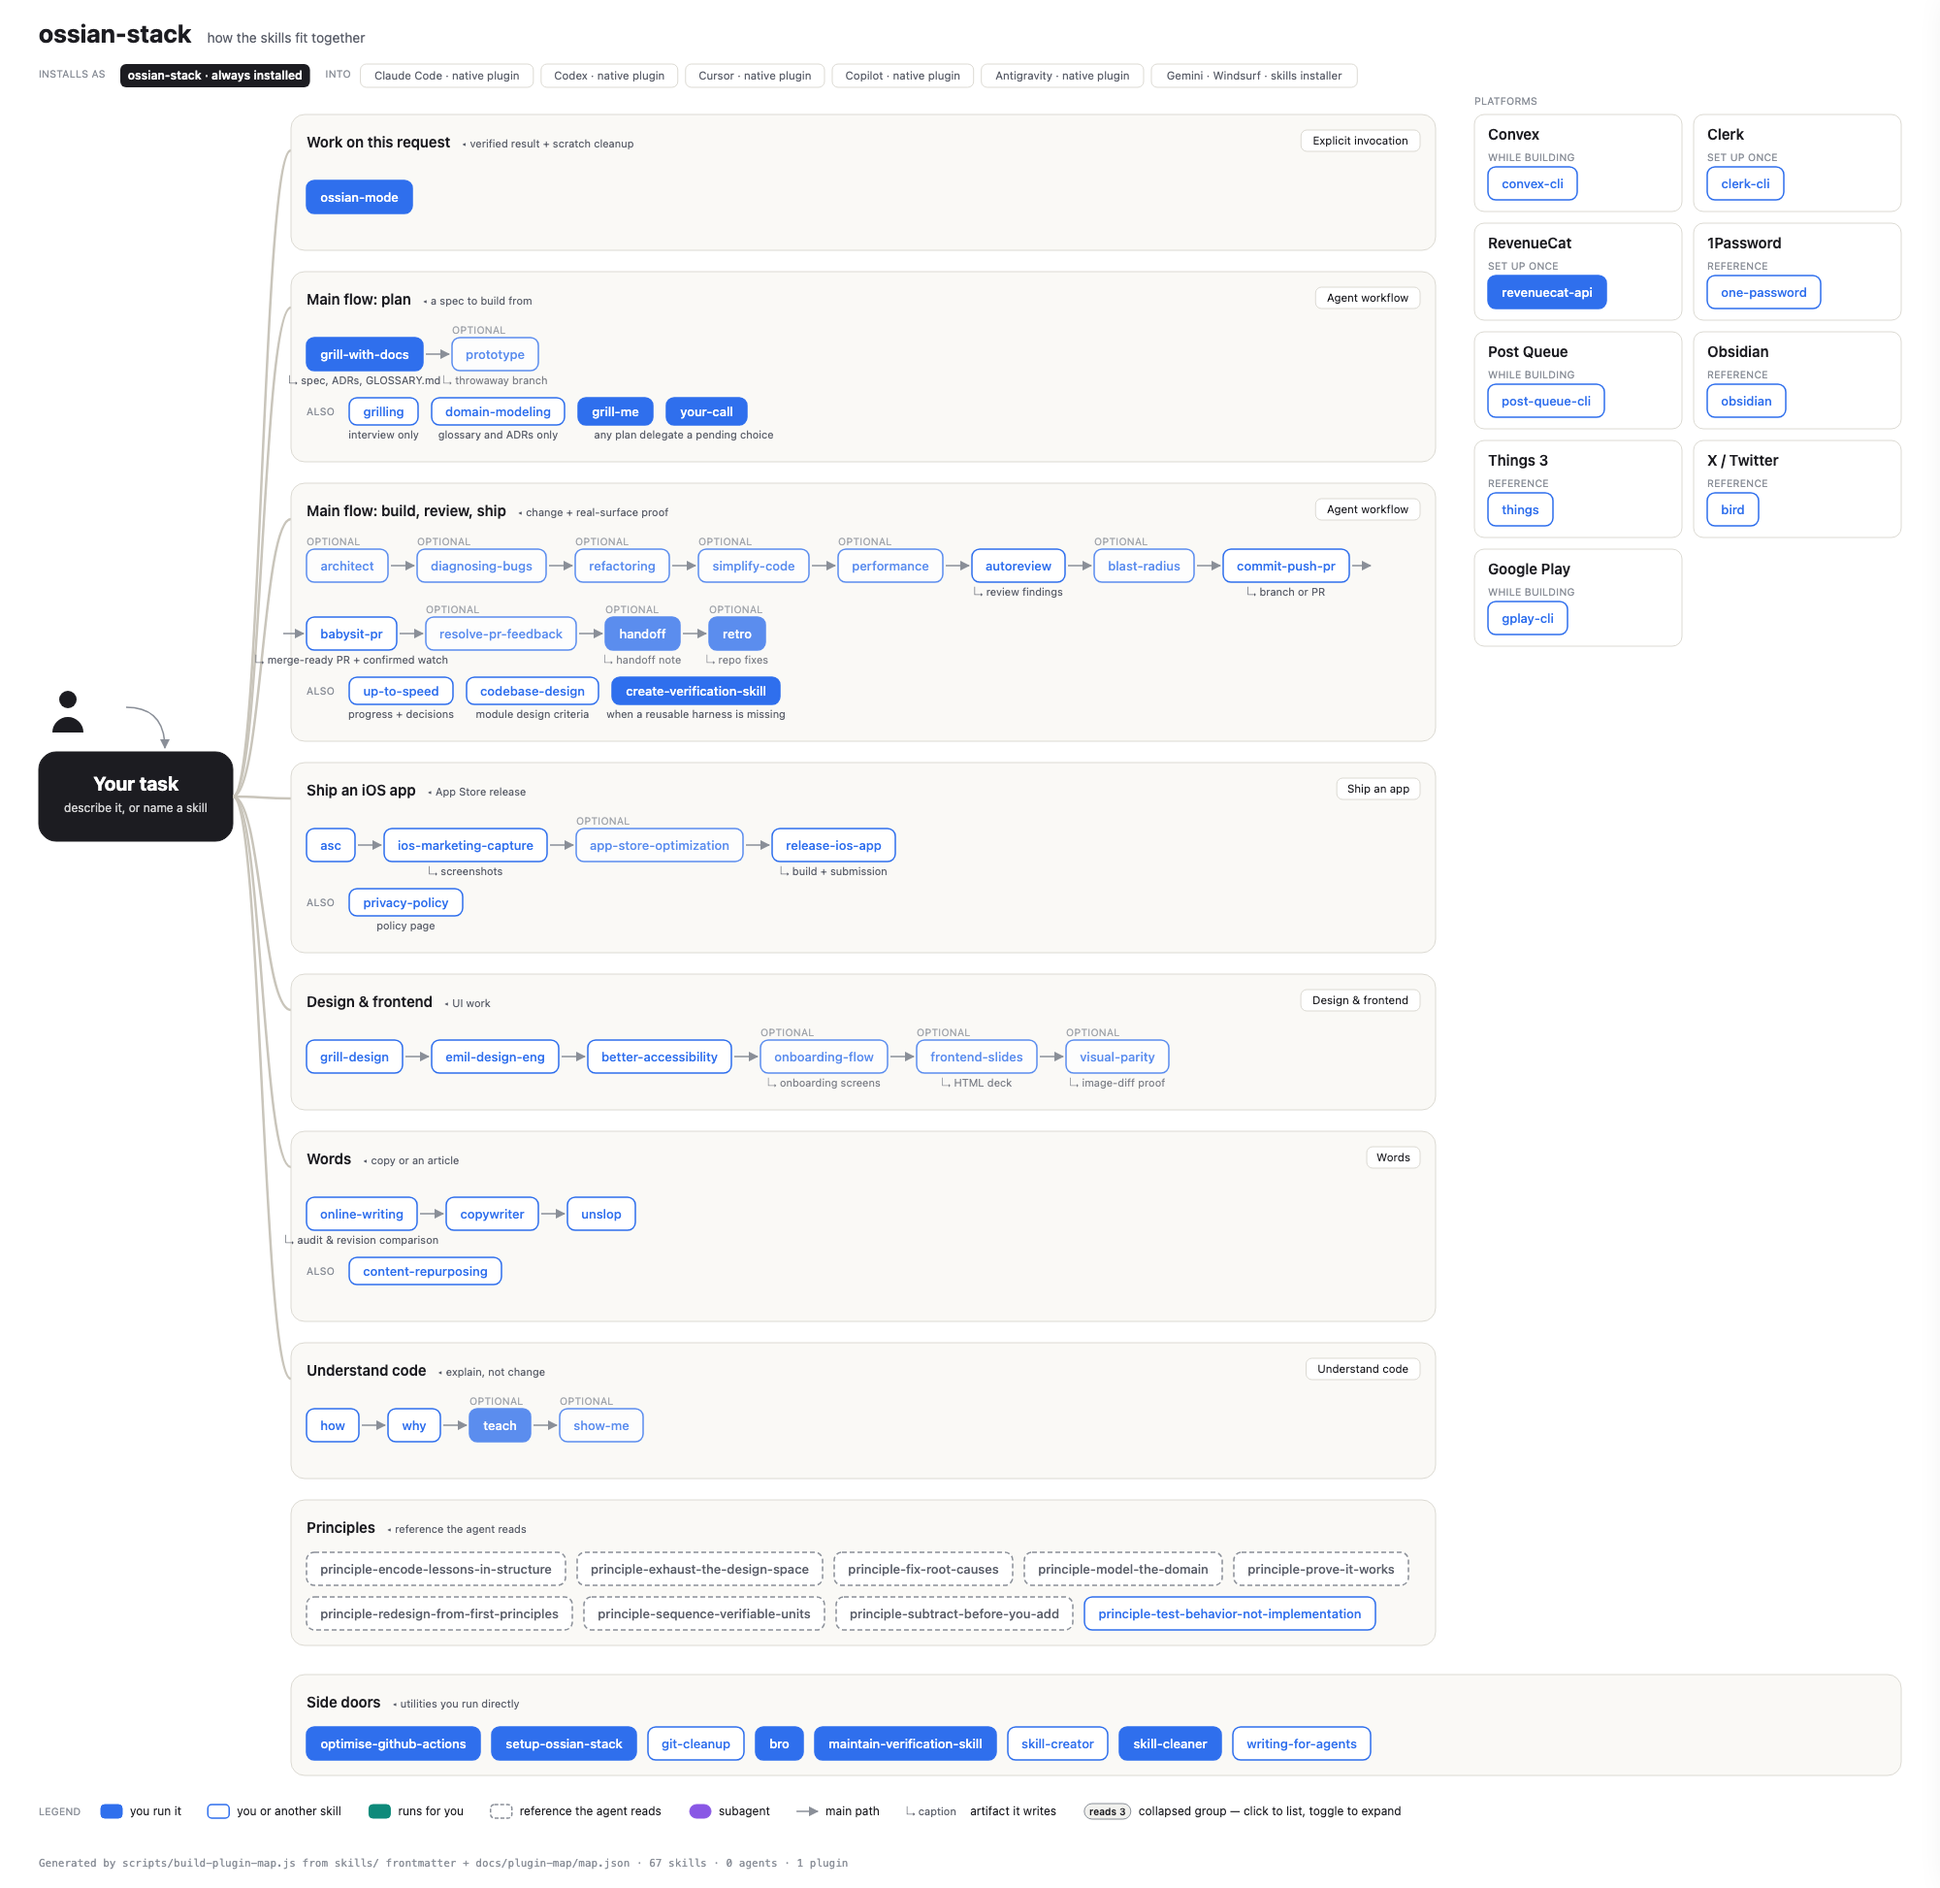
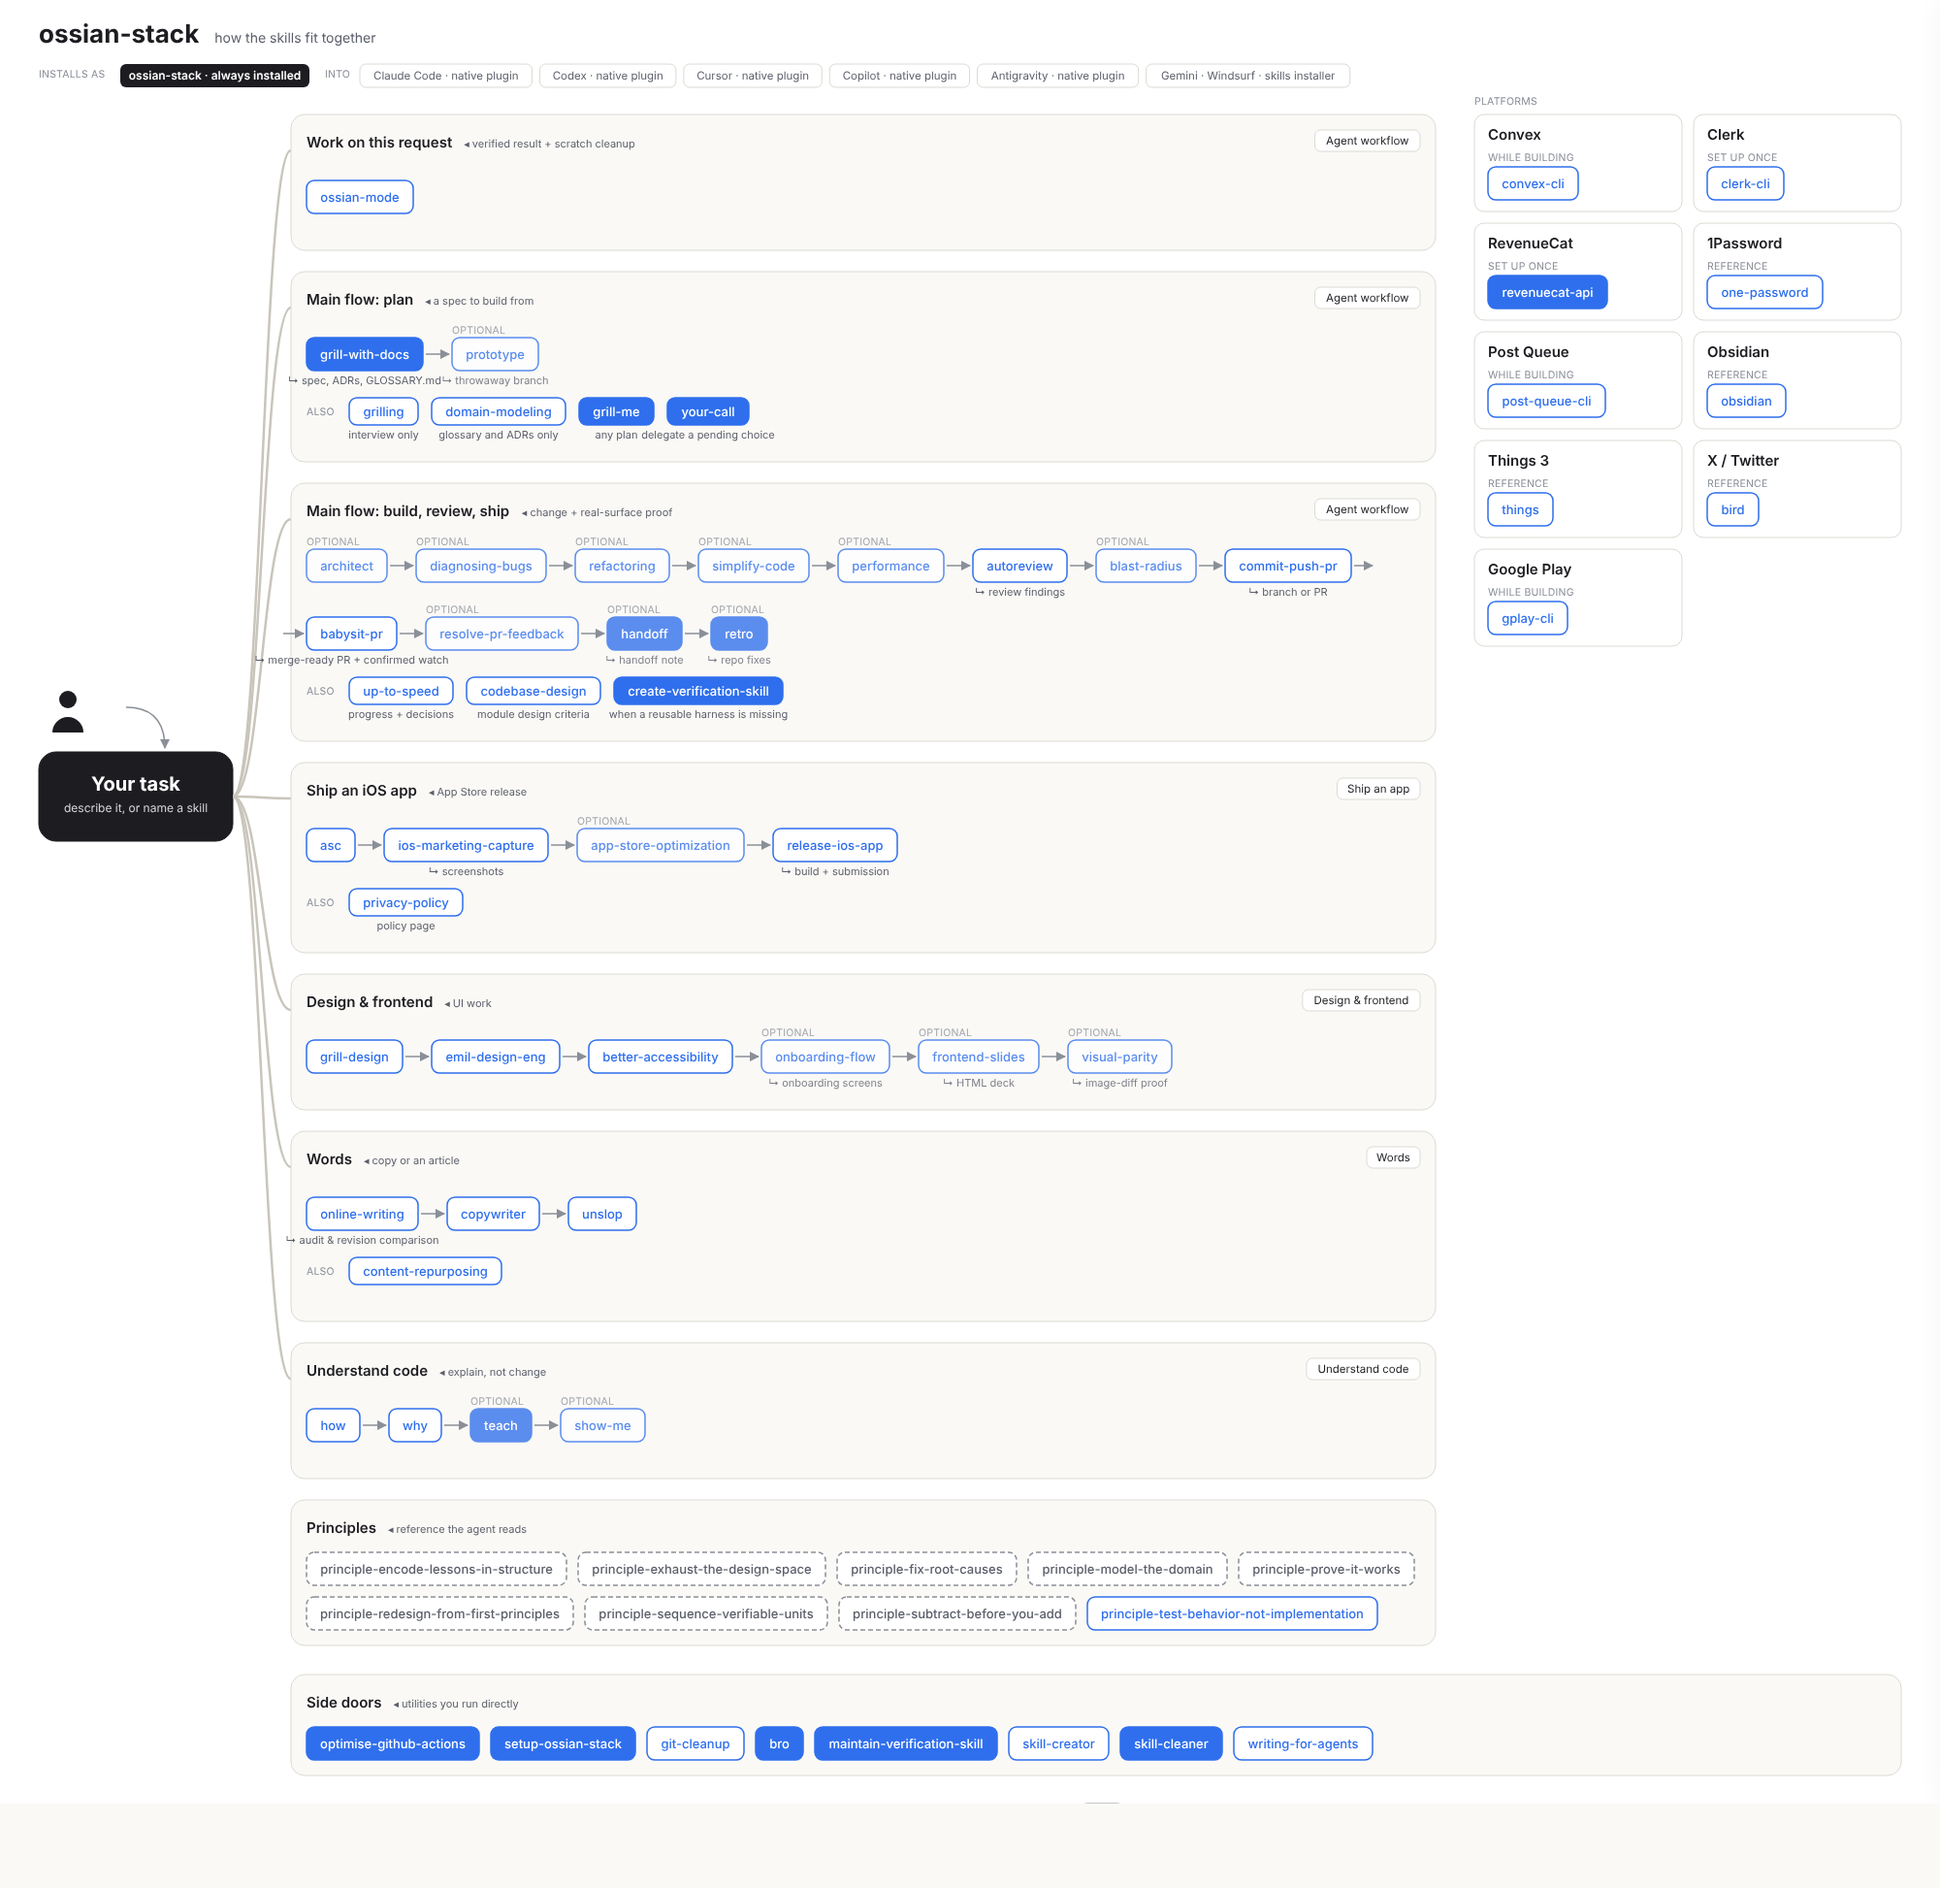
fix(plugin-map): refresh screenshots for ossian-mode role change
Regenerate map.png and map-expanded.png so the README shows ossian-mode as
model-invocable, and retag its lane from "Explicit invocation" to "Agent
workflow".

Claude-Session: https://claude.ai/code/session_016RpLBmmvE2dEFoiAdNo8DN

diff --git a/docs/plugin-map/index.html b/docs/plugin-map/index.html
@@ -159,7 +159,7 @@
     "id": "current-request",
     "title": "Work on this request",
     "outcome": "verified result + scratch cleanup",
-    "tag": "Explicit invocation",
+    "tag": "Agent workflow",
     "steps": [
      {
       "id": "ossian-mode"
